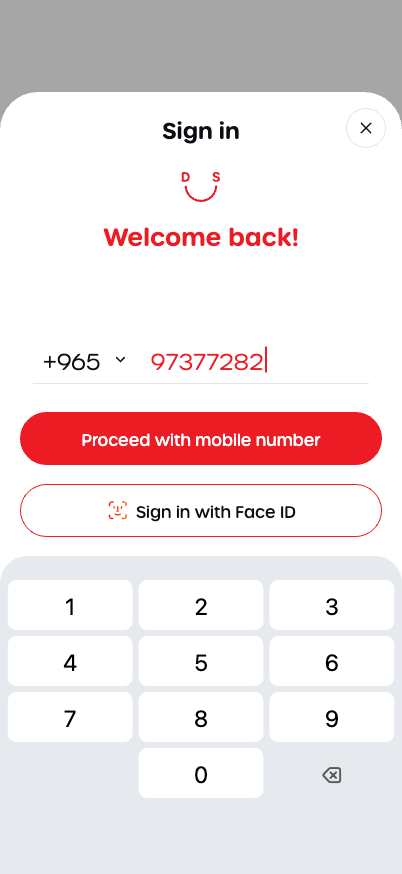
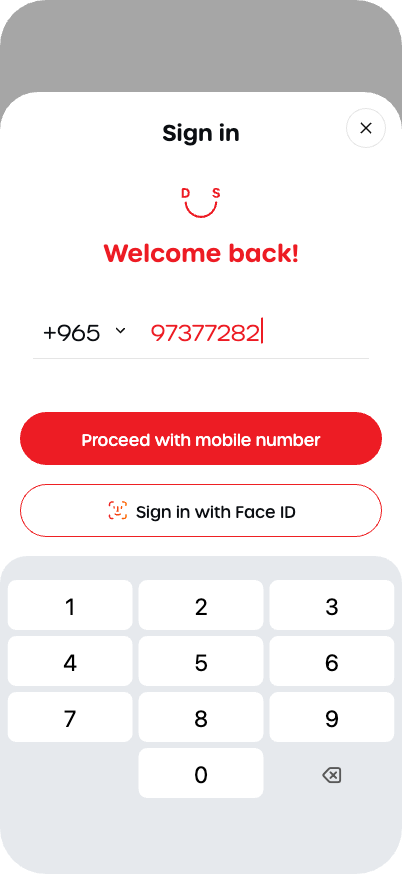
Auth: Figma-exact vertical rhythm (Rashid's margins/breathing pass)
Brand block now the 118pt centered group (logo 188, welcome 234), phone
field 56pt at 303-359 with the 53pt air gap before the CTAs, OTP stack
gets its 12pt gaps (title 218 / sent 270 / link 310), title pinned at
Figma's top-22, digit letter-spacing dropped, success screen calmed.
preview.png recaptured without bezel/island artifacts.

diff --git a/auth/index.html b/auth/index.html
@@ -108,7 +108,7 @@
   /* --- sheet header (Top Page Navigation) --- */
   .topnav { position: absolute; left: 0; right: 0; top: 0; height: 72px; z-index: 20;
     display: flex; align-items: center; padding: 16px; }
-  .topnav .title { position: absolute; left: 0; right: 0; text-align: center;
+  .topnav .title { position: absolute; left: 0; right: 0; top: 22px; text-align: center;
     font: 600 22px/32px 'Urbane Rounded', sans-serif; color: #0b0e12; pointer-events: none; }
   .authx { margin-left: auto; width: 40px; height: 40px; border-radius: 100px;
     border: 1px solid #e5e5e5; background: #fff; cursor: pointer; z-index: 2;
@@ -127,16 +127,22 @@
   .scr.onstage { transform: translateX(0); opacity: 1; }
 
   /* --- sign-in screen (Figma 16360:78789) --- */
+  /* Figma 16360:78789 — container top 80 in-sheet, h 387, pb 22, space-between:
+     brand group h 118 (content vertically centered), bottom group h 234 */
   .signin-col { position: absolute; left: 0; right: 0; top: 8px;
     display: flex; flex-direction: column; align-items: center;
     padding: 0 20px 22px; height: 387px; justify-content: space-between; }
-  .brand { display: flex; flex-direction: column; align-items: center; gap: 16px; }
-  .brand .logo { height: 30px; }
-  .brand h1 { font: 600 24px/32px 'Urbane Rounded', sans-serif; color: #ed1c24; text-align: center; }
+  .brand { display: flex; flex-direction: column; align-items: center;
+    justify-content: center; gap: 16px; height: 118px; }
+  .brand .logo { width: 38.67px; height: 30px; }
+  .brand h1 { font: 600 24px/32px 'Urbane Rounded', sans-serif; color: #ed1c24;
+    text-align: center; height: 40px; }   /* Figma text slot is 40 (hidden subtitle below) */
 
+  .bottom-group { width: 100%; height: 234px; display: flex;
+    flex-direction: column; justify-content: space-between; }
   .phone-block { width: 100%; padding: 0 13px; }
   .phone-field { display: flex; align-items: center; gap: 10px; padding-right: 12px;
-    border-bottom: 1px solid #e5e5e5; height: 48px;
+    border-bottom: 1px solid #e5e5e5; height: 56px;
     transition: border-color .25s ease; }
   .phone-field.err { border-color: #ed1c24; }
   .pretab { display: flex; align-items: center; gap: 10px; padding: 0 10px; height: 36px;
@@ -144,7 +150,7 @@
   .pretab .cc { font: 300 22px/28px 'Urbane Rounded', sans-serif; color: #0b0e12; }
   .pretab img { width: 20px; height: 20px; }
   .phone-num { flex: 1; display: flex; align-items: center; min-width: 0;
-    font: 300 22px/28px 'Urbane Rounded', sans-serif; color: #ed1c24; letter-spacing: .5px;
+    font: 300 22px/28px 'Urbane Rounded', sans-serif; color: #ed1c24;
     white-space: nowrap; overflow: hidden; }
   .caret { width: 2px; height: 26px; margin-left: 1px; background: #ed1c24; border-radius: 1px;
     animation: blink 1.06s steps(1) infinite; }
@@ -177,9 +183,11 @@
   .otp-head .bubble { width: 30px; height: 30px; }
   .otp-head h1 { font: 600 30px/40px 'Urbane Rounded', sans-serif; color: #ed1c24;
     text-align: center; width: 100%; }
+  .otp-head .stack { width: 100%; display: flex; flex-direction: column;
+    align-items: center; gap: 12px; }   /* Figma 16360:79081: gap 12 */
   .otp-head .sent { font: 400 18px/28px 'Proxima Nova', sans-serif; color: #0b0e12;
-    text-align: center; width: 100%; margin-top: -4px; }
-  .otp-head .alt { margin-top: 12px; background: none; border: none; cursor: pointer;
+    text-align: center; width: 100%; }
+  .otp-head .alt { background: none; border: none; cursor: pointer;
     font: 500 12px/1 'Urbane Rounded', sans-serif; color: #5e5e5e;
     text-decoration: underline; text-underline-position: from-font; }
 
@@ -200,8 +208,8 @@
   .resend.ready b { color: #ed1c24; text-decoration: underline; cursor: pointer; }
 
   /* --- success screen --- */
-  .done-col { position: absolute; left: 0; right: 0; top: 96px;
-    display: flex; flex-direction: column; align-items: center; gap: 22px; padding: 0 40px; }
+  .done-col { position: absolute; left: 0; right: 0; top: 118px;
+    display: flex; flex-direction: column; align-items: center; gap: 24px; padding: 0 40px; }
   .tickwrap { width: 88px; height: 88px; border-radius: 50%; background: #ed1c24;
     display: flex; align-items: center; justify-content: center;
     transform: scale(.4); opacity: 0;
@@ -357,7 +365,7 @@
               <img class="logo" src="auth-logo.svg" alt="DietStation">
               <h1>Welcome back!</h1>
             </div>
-            <div style="width:100%">
+            <div class="bottom-group">
               <div class="phone-block">
                 <div class="phone-field" id="phoneField">
                   <div class="pretab"><span class="cc">+965</span><img src="auth-chevron.svg" alt=""></div>
@@ -378,12 +386,10 @@
           <div class="otp-col">
             <div class="otp-head">
               <img class="bubble" src="auth-chat.svg" alt="">
-              <div style="width:100%">
+              <div class="stack">
                 <h1>OTP SENT</h1>
                 <div class="sent" id="otpSentTo">OTP has been sent to 97377282</div>
-                <div style="display:flex;justify-content:center">
-                  <button class="alt" id="btnPwd">Sign in with Password instead</button>
-                </div>
+                <button class="alt" id="btnPwd">Sign in with Password instead</button>
               </div>
             </div>
             <div class="otp-row" id="otpRow">
